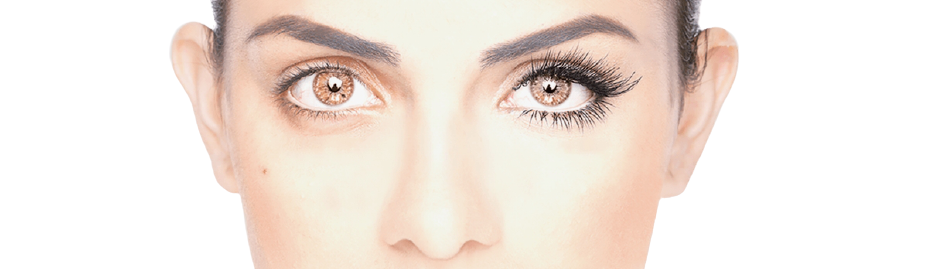
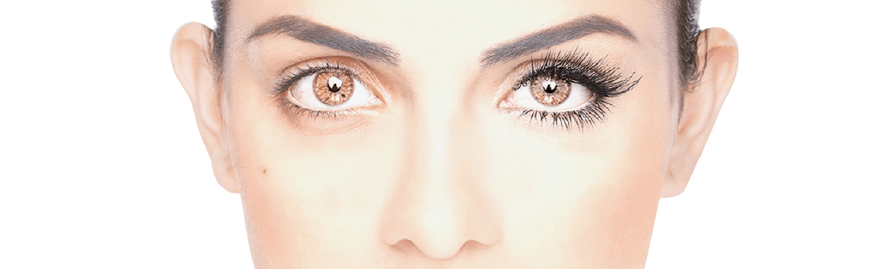
Made website responsive

Changed region(s): [[0.1833, 0.0, 0.8552, 1.0]]

diff --git a/style_index.css b/style_index.css
@@ -1,14 +1,19 @@
 html {
   font-size: 62.5%;
   overflow: scroll;
-  background-color: rgb(245, 226, 214);
+  background: rgb(242, 211, 188);
+  background: linear-gradient(
+    180deg,
+    rgba(242, 211, 188, 1) 0%,
+    rgba(231, 227, 228, 1) 100%
+  );
 }
 
 body {
   font-family: "Vidaloka", serif;
 }
 
-/* Nav Styles */
+/* Nav Styles F2D3BC E5CBCE*/
 
 .nav {
   position: relative;
@@ -53,11 +58,14 @@ body {
   border-top: 1px solid rgb(158, 108, 68);
   border-bottom: 1px solid rgb(158, 108, 68);
   background-color: whitesmoke;
+  width: 100%;
+  height: 20rem;
+  background-repeat: no-repeat;
+  background-position: center;
 }
 
 .subnav-pic {
   position: relative;
-  justify-content: center;
 }
 
 .subnav-text h2 {
@@ -71,6 +79,31 @@ body {
   justify-content: center;
 }
 
+.call-to-action {
+  position: relative;
+  width: 100%;
+  text-align: center;
+  margin-top: 5rem;
+  margin-bottom: 3rem;
+}
+
+.action-button {
+  color: white;
+  text-decoration: none;
+  font-size: 3.2rem;
+  background: rgb(168, 155, 145);
+  background: linear-gradient(
+    137deg,
+    rgba(168, 155, 145, 1) 0%,
+    rgba(135, 106, 88, 1) 52%,
+    rgba(129, 82, 54, 1) 100%
+  );
+  padding: 1.4rem 1.4rem;
+  border: black;
+  border-radius: 2rem;
+  cursor: pointer;
+  box-shadow: 0 0 8px 5px gray;
+}
 /* Content Wrapper */
 
 .content-wrapper {
@@ -90,22 +123,37 @@ body {
 
 .box-wrapper {
   margin: 0.5rem;
-  display: grid;
-  grid-template-columns: 40rem 40rem 40rem;
-  gap: 3rem;
+  width: 100%;
+  height: 100%;
+  display: inline-block;
   align-items: center;
   justify-content: center;
+  margin-bottom: 15rem;
 }
 
 .box {
+  vertical-align: top;
   position: relative;
-  display: flex;
+  display: inline-block;
+  margin: 2rem;
   height: 50rem;
   width: 40rem;
   background-color: whitesmoke;
   border-radius: 8px;
   border: 3px solid rgb(158, 108, 68);
   box-shadow: 0 0 7px rgba(0, 0, 0, 0.05), 2px 2px 7px rgba(0, 0, 0, 0.6);
+  margin-bottom: 15rem;
+}
+
+.box:nth-child(3) {
+  margin-bottom: 5rem;
+}
+
+.box-background {
+  background-size: cover;
+  position: relative;
+  height: 50rem;
+  width: 40rem;
 }
 
 .box-text-overlay {
@@ -129,20 +177,38 @@ body {
 }
 
 .box-text-transition-wrapper {
+  display: flex;
   position: grid;
   width: 100%;
   height: 100%;
   padding: 0.5rem 1rem;
 }
 
+.box-description {
+  display: inline-block;
+  margin-top: 1.4rem;
+  position: relative;
+  font-size: 2rem;
+  height: 15rem;
+  border-bottom: 2px solid rgb(158, 108, 68);
+}
+
+.box-description p {
+  position: relative;
+  display: inline-block;
+  height: 100%;
+}
+
 .new {
+  flex: 1;
   opacity: 0;
-  float: right;
   padding-right: 0.2rem;
+  text-align: end;
 }
 
 .old {
-  float: left;
+  flex: 1;
+  text-align: start;
 }
 
 .old,
@@ -160,61 +226,36 @@ body {
   background-size: cover;
   background-position: center;
   background-repeat: no-repeat;
+  border-radius: 5px;
 }
 
 .box p {
-  margin-top: 0.5rem;
-}
-
-/* info styles */
-
-.info-wrapper {
-  display: flex;
-  text-align: center;
-  justify-content: center;
-  margin-top: 3rem;
-  margin-left: 20%;
-  margin-right: 20%;
-}
-
-.info-block h1 {
-  color: rgb(158, 108, 68);
-  font-size: 4rem;
-  width: 40rem;
-  margin: 1.5rem;
-}
-
-.info-block p {
-  font-size: 2rem;
-  width: 40rem;
-  margin: 1.5rem;
-}
-
-.info-wrapper hr {
-  border: 1px solid rgb(158, 108, 68);
+  position: relative;
+  height: 100%;
+  width: 100%;
 }
 
 /* footer styles */
 .footer {
-  margin-top: 4rem;
+  display: inline-block;
   position: relative;
   height: 20rem;
   width: 100%;
   background-color: black;
+  justify-content: center;
 }
 
 .footer-wrapper {
   position: relative;
   width: 100%;
   height: 100%;
-  align-content: center;
+  justify-content: center;
 }
 
 .social-media {
   position: relative;
-  display: inline-flex;
+  display: inline-block;
   top: 50%;
-  left: 50%;
   transform: translate(-50%, -50%);
 }
 

diff --git a/index.html b/index.html
@@ -32,11 +32,15 @@
         <a href="">Contact</a>
       </div>
       <div class="subnav-wrapper">
-        <div class="subnav">
-          <img class="subnav-pic" src="/images/eyelashbanner.png" alt="" />
-        </div>
+        <div
+          class="subnav"
+          style="background-image: url(/images/eyelashbanner.png)"
+        ></div>
         <div class="subnav-text">
           <h2><i>"Enhance your natural beauty"</i></h2>
+        </div>
+        <div class="call-to-action">
+          <a class="action-button" href="">Book Appointment</a>
         </div>
       </div>
       <div class="content-wrapper">
@@ -56,6 +60,14 @@
                 <h1 class="new">$60</h1>
               </div>
             </div>
+            <div class="box-description">
+              <p>
+                The classic eyelash extension is when one lash extension is
+                applied to one natural lash (some call it 1:1 lash). With a
+                classic lash set, your lashes can look more naturally elongated
+                and elegant.
+              </p>
+            </div>
           </div>
           <div class="box">
             <div
@@ -67,6 +79,13 @@
                 <h1 class="old">Hybrid</h1>
                 <h1 class="new">$75</h1>
               </div>
+            </div>
+            <div class="box-description">
+              <p>
+                A ‘mix (hybrid)’ between a classic and volume set. A 50/50
+                mixture of 1:1 lashes and the volume fanned lashes, they are
+                stunning, texturized, and give a life-like lash look.
+              </p>
             </div>
           </div>
           <div class="box">
@@ -80,42 +99,23 @@
                 <h1 class="new">$90</h1>
               </div>
             </div>
+            <div class="box-description">
+              <p>
+                This style consists of getting a lash fan of 3 or 5 per natural
+                lash. (bigger fan will fill up more gap between the lashes).
+              </p>
+            </div>
           </div>
         </div>
-        <div class="info-wrapper">
-          <div class="info-block">
-            <p>
-              The classic eyelash extension is when one lash extension is
-              applied to one natural lash (some call it 1:1 lash). With a
-              classic lash set, your lashes can look more naturally elongated
-              and elegant.
-            </p>
-          </div>
-          <hr />
-          <div class="info-block">
-            <p>
-              A ‘mix (hybrid)’ between a classic and volume set. A 50/50 mixture
-              of 1:1 lashes and the volume fanned lashes, they are stunning,
-              texturized, and give a life-like lash look.
-            </p>
-          </div>
-          <hr />
-          <div class="info-block">
-            <p>
-              This style consists of getting a lash fan of 3 or 5 per natural
-              lash. (bigger fan will fill up more gap between the lashes)
-            </p>
-          </div>
-        </div>
-      </div>
-      <div class="footer">
-        <div class="footer-wrapper">
-          <div class="social-media">
-            <img
-              class="instagram-logo"
-              src="/images/logos/Instagram.svg"
-              alt=""
-            />
+        <div class="footer">
+          <div class="footer-wrapper">
+            <div class="social-media">
+              <img
+                class="instagram-logo"
+                src="/images/logos/Instagram.svg"
+                alt=""
+              />
+            </div>
           </div>
         </div>
       </div>
